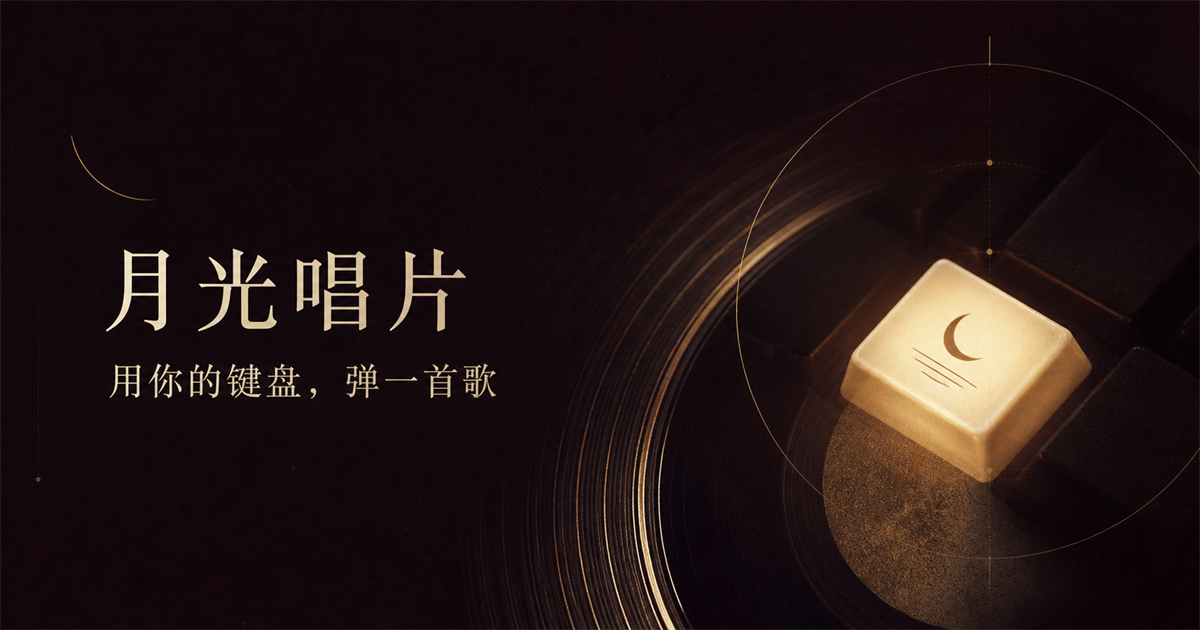
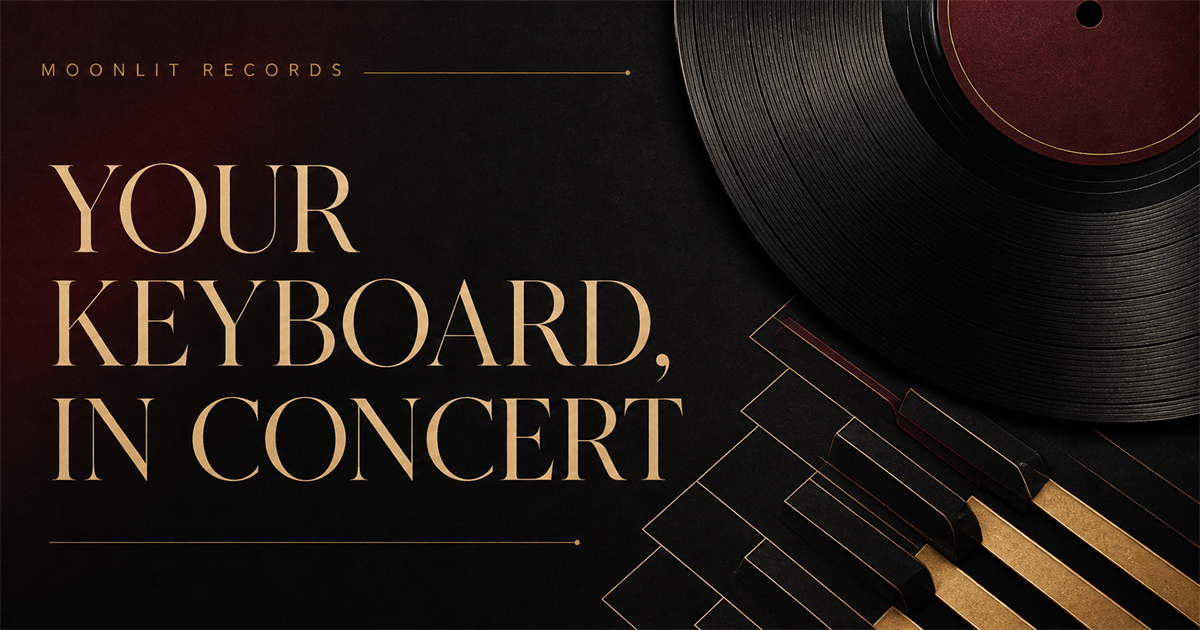
chore: prepare international concert release

diff --git a/web/app/lib/keyboard.ts b/web/app/lib/keyboard.ts
@@ -47,14 +47,16 @@ export const PLAYABLE_CODES = KEYBOARD_ROWS.flat()
   .filter((item) => !item.disabled)
   .map((item) => item.code);
 
-const CHROMATIC_NOTES = [
-  "C3", "C#3", "D3", "D#3", "E3", "F3", "F#3", "G3", "G#3", "A3", "A#3", "B3",
-  "C4", "C#4", "D4", "D#4", "E4", "F4", "F#4", "G4", "G#4", "A4", "A#4", "B4",
-  "C5", "C#5", "D5", "D#5", "E5", "F5", "F#5", "G5", "G#5", "A5", "A#5", "B5", "C6",
-];
+const CHROMATIC_NAMES = ["C", "C#", "D", "D#", "E", "F", "F#", "G", "G#", "A", "A#", "B"];
+
+function noteForMidi(midi: number): string {
+  const name = CHROMATIC_NAMES[midi % 12];
+  const octave = Math.floor(midi / 12) - 1;
+  return `${name}${octave}`;
+}
 
 const DEFAULT_NOTES = new Map(
-  PLAYABLE_CODES.map((code, index) => [code, CHROMATIC_NOTES[index % CHROMATIC_NOTES.length]]),
+  PLAYABLE_CODES.map((code, index) => [code, noteForMidi(40 + index)]),
 );
 
 export function isPlayableCode(code: string): boolean {

diff --git a/web/app/lib/keyboard.test.ts b/web/app/lib/keyboard.test.ts
@@ -19,6 +19,7 @@ describe("keyboard mapping", () => {
   it("gives every playable key one stable piano note", () => {
     expect(new Set(PLAYABLE_CODES).size).toBe(PLAYABLE_CODES.length);
     expect(PLAYABLE_CODES.every((code) => /^([A-G])(#|b)?[2-6]$/.test(defaultNoteFor(code)))).toBe(true);
+    expect(new Set(PLAYABLE_CODES.map(defaultNoteFor)).size).toBe(PLAYABLE_CODES.length);
   });
 
   it("renders the function row as disabled instead of silently omitting it", () => {

diff --git a/web/README.md b/web/README.md
@@ -1,35 +1,49 @@
-# 月光唱片
+# Moonlit Records
 
-一款把电脑键盘变成钢琴的歌词引导演奏网页。
+An English-first, lyric-guided concert piano that turns a standard computer keyboard into a free instrument.
 
-## 已实现
+## The experience
 
-- 曲库内直接搜索歌名，首版收录三首人工校准曲目。
-- KTV 式当前句 / 下一句歌词，按字或英文首字母推进。
-- 屏幕还原标准电脑键盘；系统功能键保留，不参与演奏。
-- 每个安全按键都有自己的默认钢琴音高，随时可以即兴。
-- 当前目标键会临时改为歌曲旋律音高；弹错会响并标红，但不会推进。
-- 暖毡、音乐厅、明亮、旧立式四种琴色调音。
-- 失焦自动暂停、过滤长按连发、按键抬起释放琴音。
-- 桌面端完整演奏；手机端保留曲库与明确的电脑演奏提示。
+- Search the curated catalogue by English display metadata or hidden Chinese aliases.
+- Play every safe keyboard key freely at any time; each key owns a stable default piano note.
+- Follow Chinese pinyin initials or English word initials to play a song melody through familiar typing gestures.
+- See KTV-style current and next lyric lines, with the required key illuminated on a full screen keyboard.
+- Hear wrong keys as ordinary free-play notes. They mark red but do not advance the lyric; the expected key continues waiting.
+- Hold a physical key to sustain its exact note and release that same key to begin the natural envelope. Independent held keys form real chords.
+- Continue improvising after the final lyric note. Completion waits until every held key is released and the selected hall tail has fully faded.
 
-## 本地运行
+## Piano voices
 
-需要 Node.js 22.13 或更高版本。
+Moonlit Records recommends a voice per arrangement while keeping all four available during performance:
+
+- **Felt Grand** — intimate, softened and lyrical; recommended for *Hello, Moonlight*.
+- **Studio Grand** — clear, articulate and close; recommended for *Twinkle, Twinkle, Little Star*.
+- **Vintage Upright** — dry, characterful and nostalgic.
+- **Concert Grand** — open, resonant and hall-sized; recommended for *Ode to Joy · Excerpt*.
+
+All voices use local Salamander Grand samples with individual filtering, release, pre-delay, reverb and completion-tail profiles.
+
+## Run locally
+
+Requires Node.js 22.13 or newer.
 
 ```bash
 npm install
 npm run dev
 ```
 
-验证：
+Verification:
 
 ```bash
 npm test
 npm run test:render
-npx tsc --noEmit
+npm run build
 ```
 
-## 声音与版权
+## Audio and rights
 
-钢琴采样来自 Salamander Grand Piano，使用 CC BY 3.0 许可；详细署名见 `public/audio/ATTRIBUTION.md`。首版歌曲均为原创内容或公版旋律的人工校准片段，不抓取、不热链受版权保护的歌词与音频。
+The piano samples come from Salamander Grand Piano under CC BY 3.0; see `public/audio/ATTRIBUTION.md`. The included score fragments are original material or manually calibrated public-domain melodies. The application does not scrape or hotlink copyrighted lyrics or audio.
+
+## Deployment
+
+The site is configured for a private OpenAI Sites project in `.openai/hosting.json`. Publishing replaces the current private version without changing the project identity.
